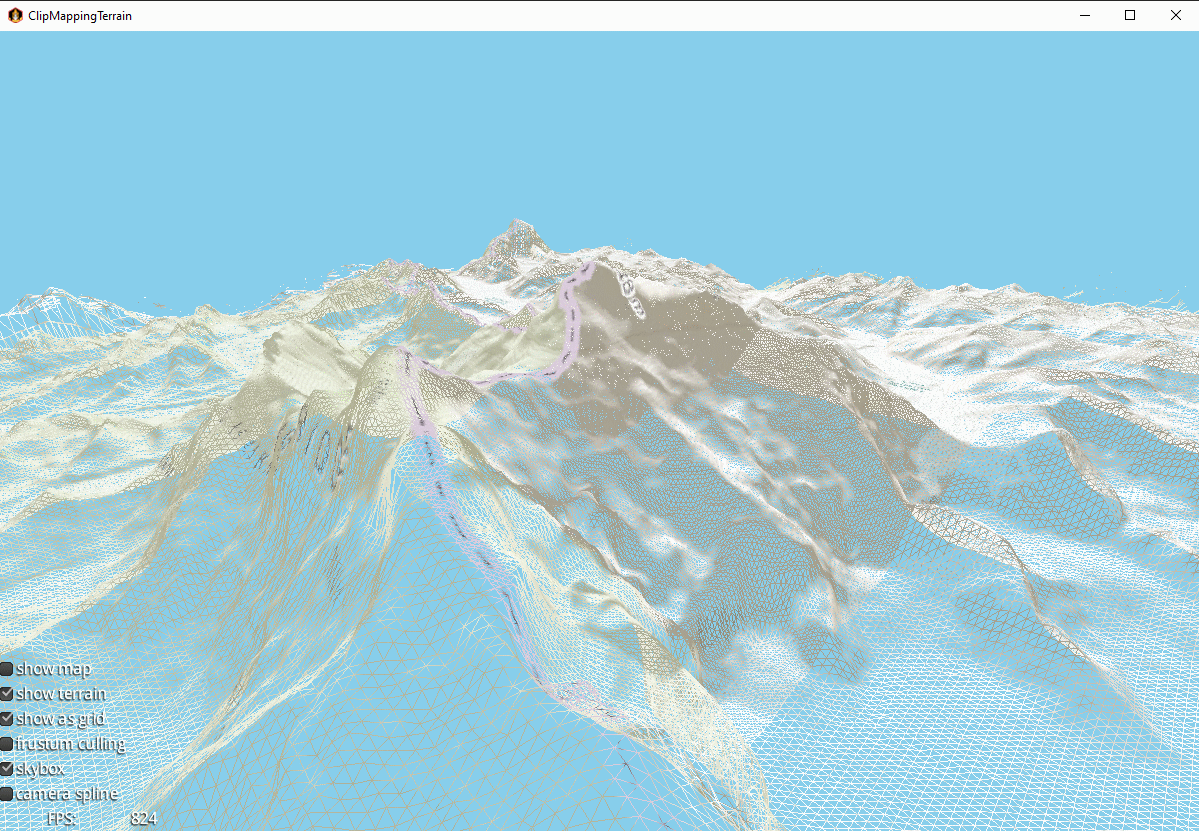
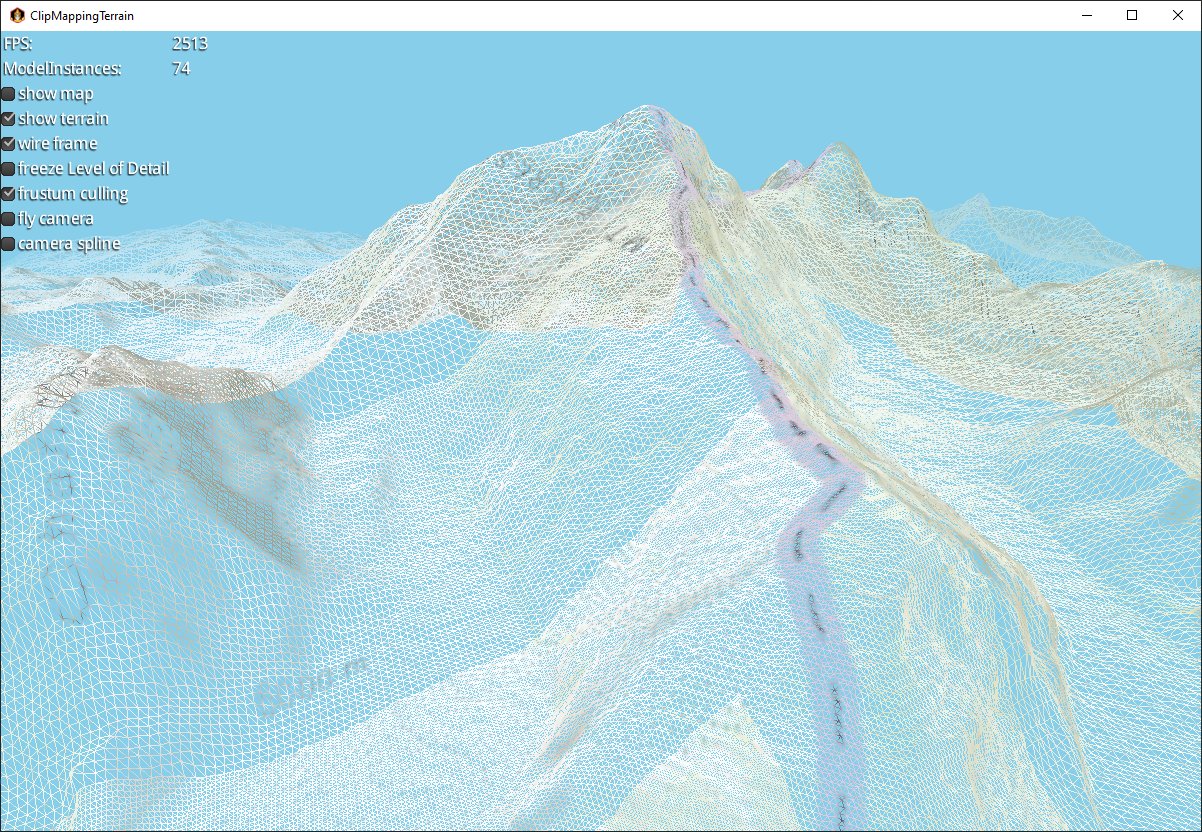
use 8 bit height map asset

diff --git a/core/src/main/java/com/monstrous/terrain/TerrainDemo.java b/core/src/main/java/com/monstrous/terrain/TerrainDemo.java
@@ -13,6 +13,7 @@ import com.badlogic.gdx.graphics.g3d.utils.*;
 import com.badlogic.gdx.graphics.glutils.ShapeRenderer;
 import com.badlogic.gdx.math.CatmullRomSpline;
 import com.badlogic.gdx.math.Vector3;
+import com.badlogic.gdx.utils.Array;
 import com.badlogic.gdx.utils.ScreenUtils;
 import com.monstrous.terrain.terrain.Terrain;
 
@@ -23,12 +24,15 @@ public class TerrainDemo extends ApplicationAdapter {
 	public SpriteBatch batch;
 	public GUI gui;
     public Terrain terrain;
+    private Model cube;
+    private ModelBatch modelBatch;
 
 	CatmullRomSpline<Vector3> myCatmull;
 	ShapeRenderer shapeRenderer;
 	float time;
 	private final Vector3 tmp = new Vector3();
 	private final Vector3[] pathPoints = new Vector3[100];	// to render spline (debug)
+    private Array<ModelInstance> vegetation;   // to show placement at terrain height
 
 
 	@Override
@@ -38,11 +42,13 @@ public class TerrainDemo extends ApplicationAdapter {
 
         terrain = new Terrain(gui, 255, 7, 32f);
 
+        generateVegetation(terrain);
+
 		// create perspective camera
 		cam = new PerspectiveCamera(70, Gdx.graphics.getWidth(), Gdx.graphics.getHeight());
 		cam.position.set(0, 20000, 0);
 		cam.lookAt(0, 0, 0);
-		cam.far = 100000f;
+		cam.far = 10000000f;
 		cam.near = 10f;
 		cam.update();
 
@@ -59,6 +65,8 @@ public class TerrainDemo extends ApplicationAdapter {
 		// define some lighting
 		environment = new Environment();
         environment.set(new ColorAttribute(ColorAttribute.Fog, Color.SKY));
+
+        modelBatch = new ModelBatch();
 
 		batch = new SpriteBatch();
 		buildCameraPath();
@@ -87,6 +95,10 @@ public class TerrainDemo extends ApplicationAdapter {
         else
             cam.lookAt(0, 0, 0);
 
+//        float height = terrain.getHeight(cam.position.x, cam.position.z);
+//        if(height + 10f > cam.position.y)
+//            cam.position.y = height + 10f;
+
         if(!gui.freezeLoD && gui.showTerrain)
             terrain.update(cam);
 
@@ -99,9 +111,11 @@ public class TerrainDemo extends ApplicationAdapter {
         if(gui.showCameraPath)
 		    renderPath();
 
+        //renderVegetation();
+
 		if (gui.showHeightmap) {
 			batch.begin();
-			batch.draw(terrain.getHeightMapTexture(), Gdx.graphics.getWidth()-256, 0, 256, 256);
+			batch.draw(terrain.getHeightMapTexture(), Gdx.graphics.getWidth()-256, Gdx.graphics.getHeight()-256, 256, 256);
 			batch.end();
 		}
 		gui.render(Gdx.graphics.getDeltaTime());
@@ -112,6 +126,8 @@ public class TerrainDemo extends ApplicationAdapter {
 		batch.dispose();
         terrain.dispose();
         gui.dispose();
+        cube.dispose();
+        modelBatch.dispose();
 	}
 
 	private void buildCameraPath() {
@@ -140,6 +156,30 @@ public class TerrainDemo extends ApplicationAdapter {
 		}
 	}
 
+    private void generateVegetation(Terrain terrain){
+        ModelBuilder builder = new ModelBuilder();
+        float SZ = 250f;
+        cube = builder.createBox(SZ, SZ, SZ, new Material(ColorAttribute.createDiffuse(Color.CYAN)),
+            VertexAttributes.Usage.Position | VertexAttributes.Usage.Normal);
+
+        final int N = 100;
+        final float worldSize = 130000f;  // terrain.worldSize / 8.128 ??
+        vegetation = new Array<>();
+
+        for(int i = 0; i < N; i++){
+            float x = ((float)Math.random() -0.5f) * worldSize;
+            float z = ((float)Math.random() -0.5f) * worldSize;
+            float h = 5f + terrain.getHeight(x, z);
+            vegetation.add( new ModelInstance(cube, x, h, z));
+        }
+
+    }
+
+    private void renderVegetation(){
+        modelBatch.begin(cam);
+        modelBatch.render(vegetation);
+        modelBatch.end();
+    }
 
 
 	private void moveCameraAlongSpline(float time) {

diff --git a/core/src/main/java/com/monstrous/terrain/terrain/HeightMap.java b/core/src/main/java/com/monstrous/terrain/terrain/HeightMap.java
@@ -1,68 +1,14 @@
 package com.monstrous.terrain.terrain;
 
-
-import com.badlogic.gdx.files.FileHandle;
-import com.badlogic.gdx.graphics.Pixmap;
 import com.badlogic.gdx.graphics.Texture;
 import com.badlogic.gdx.utils.Disposable;
 
+public interface HeightMap extends Disposable {
 
-public class HeightMap implements Disposable {
-    final int PERLIN_GRID_SIZE = 16;
+    /** returns a 2d texture with the height in the alpha channel. */
+    public Texture getHeightMapTexture();
 
-    public int mapSize;
-    private float[][] heightMap;
-    private Noise noise;
-    private Texture heightMapTexture;
-    private Pixmap pixmap;
-
-
-    /** Create height map using Perlin noise */
-    public HeightMap(int mapSize) {
-        this.mapSize = mapSize;
-        noise = new Noise();
-        // generate a noise map
-        heightMap = noise.generateSmoothedPerlinMap(mapSize, mapSize, 0,0, PERLIN_GRID_SIZE);
-    }
-
-    /** Create height map from grey scale texture file (should be 16 bits greyscale) */
-    public HeightMap(FileHandle textureFile) {
-        pixmap = new Pixmap(textureFile);
-        heightMapTexture = new Texture(pixmap, true);
-
-        heightMapTexture.setWrap(Texture.TextureWrap.ClampToEdge, Texture.TextureWrap.ClampToEdge);
-        heightMapTexture.setFilter(Texture.TextureFilter.MipMapLinearLinear, Texture.TextureFilter.Linear);
-        mapSize = heightMapTexture.getWidth();  // assumes a square
-    }
-
-    public Texture getHeightMapTexture(){
-        // create on demand
-        if(heightMapTexture == null){
-            // copy to a texture (for debug)
-            pixmap = noise.generatePixmap(heightMap, mapSize);
-
-            heightMapTexture = new Texture(pixmap);
-            heightMapTexture.setWrap(Texture.TextureWrap.ClampToEdge, Texture.TextureWrap.ClampToEdge);
-            heightMapTexture.setFilter(Texture.TextureFilter.Linear, Texture.TextureFilter.Linear);
-        }
-        return heightMapTexture;
-    }
-
-    public float get(float wx, float wz){
-        int x = Math.round(wx * mapSize);
-        int z = Math.round(wz*mapSize);
-        // todo alpha is 16-bit but getPixel reduces this to 8 bits. Should read from ByteBuffer instead.
-        int pixel = pixmap.getPixel(x, z);
-        //Gdx.app.log("pixel: ", Integer.toHexString(pixel));
-        int a = (pixel) & 0xFF;
-        float h = 20000f * ((a/255.0f)-0.5f);
-        return h; //heightMap[z][x];
-    }
-
-    @Override
-    public void dispose() {
-        if(heightMapTexture != null)
-            heightMapTexture.dispose();
-    }
+    /** get height at position (wx, wz). Coordinates must be in range [0.0 to 1.0]. */
+    public float get(float wx, float wz);
 
 }

diff --git a/core/src/main/java/com/monstrous/terrain/terrain/Terrain.java b/core/src/main/java/com/monstrous/terrain/terrain/Terrain.java
@@ -18,6 +18,7 @@ public class Terrain implements Disposable {
     public final int clipMapSize;   // should be 2^N-1, e.g. 127 or 63 (255 is too large for the indexing) = vertices per side
     public final int numLevels;
     public final float tileSize;
+    public final float worldSize;   // world size of terrain, centered on the origin
     public HeightMap heightMap;
     public final Array<TerrainElement> elements = new Array<>();
     private final Array<ModelInstance> instances = new Array<>();
@@ -43,8 +44,9 @@ public class Terrain implements Disposable {
         this.clipMapSize = clipMapSize;
         this.numLevels = numLevels;
         this.tileSize = tileSize;
+        this.worldSize = (clipMapSize-1) * tileSize * (float)Math.pow(2.0, numLevels);
         //heightMap = new HeightMap(256); //clipMapSize+1);
-        heightMap = new HeightMap(Gdx.files.internal("terrain/everest_2048_2048_16bit.png"));
+        heightMap = new HeightMapFromFile(Gdx.files.internal("terrain/everest_2048_2048_8bit.png"));
 
         focus = new Vector3();
 
@@ -59,6 +61,17 @@ public class Terrain implements Disposable {
                 return new DefaultShader(renderable, new DefaultShader.Config(Gdx.files.internal("shaders/terrain.vertex.glsl").readString(), Gdx.files.internal("shaders/terrain.fragment.glsl").readString()));
             }
         });
+    }
+
+
+    public float getHeight(float worldX, float worldZ){
+        float worldSize = 254f * 128f * 4f;     // to match hard coded value in vertex shader
+        // scale [-0.5*worldSize .. 0.5*worldSize] to [0 .. 1]
+        float u = (worldX / worldSize) + 0.5f;
+        float v = (worldZ / worldSize) + 0.5f;
+        if(u < 0 || u > 1f || v < 0 || v > 1f)
+            return 25600;
+        return 100f * (heightMap.get(u, v) - 128);
     }
 
     /** Generate terrain building block models. This can be called to change the appearance (e.g. wire frame mode).

diff --git a/core/src/main/java/com/monstrous/terrain/terrain/HeightMapFromFile.java b/core/src/main/java/com/monstrous/terrain/terrain/HeightMapFromFile.java
@@ -1,0 +1,60 @@
+package com.monstrous.terrain.terrain;
+
+
+import com.badlogic.gdx.files.FileHandle;
+import com.badlogic.gdx.graphics.Pixmap;
+import com.badlogic.gdx.graphics.Texture;
+import com.badlogic.gdx.utils.Disposable;
+
+import java.nio.ByteBuffer;
+
+
+public class HeightMapFromFile implements HeightMap, Disposable {
+
+    public int mapSize;
+    private Texture heightMapTexture;
+    private Pixmap pixmap;
+    private byte[] heightData;
+
+
+    /** Create height map from grey scale texture file (should be 8 bits greyscale) */
+    public HeightMapFromFile(FileHandle textureFile) {
+        pixmap = new Pixmap(textureFile);
+
+        // read heights into an array
+        ByteBuffer bytes = pixmap.getPixels();
+        int numBytes = bytes.limit();
+        heightData = new byte[numBytes];
+        bytes.get(heightData);
+        bytes.rewind();
+
+        heightMapTexture = new Texture(pixmap, true);
+
+        heightMapTexture.setWrap(Texture.TextureWrap.ClampToEdge, Texture.TextureWrap.ClampToEdge);
+        heightMapTexture.setFilter(Texture.TextureFilter.MipMapLinearLinear, Texture.TextureFilter.Linear);
+        mapSize = heightMapTexture.getWidth();  // assumes a square
+
+        float h = get(0f, 0f);
+    }
+
+    public Texture getHeightMapTexture(){
+        return heightMapTexture;
+    }
+
+    /** get height at position (u, v). Coordinates must be in range [0.0 to 1.0]. */
+    public float get(float u, float v){
+        int x = Math.round(u * mapSize);
+        int z = Math.round(v * mapSize);
+
+        int hi = heightData[z*mapSize+x] & 0xFF;
+        float h = hi;
+        return h;
+    }
+
+    @Override
+    public void dispose() {
+        if(heightMapTexture != null)
+            heightMapTexture.dispose();
+    }
+
+}

diff --git a/core/src/main/java/com/monstrous/terrain/terrain/HeightMapGenerated.java b/core/src/main/java/com/monstrous/terrain/terrain/HeightMapGenerated.java
@@ -1,0 +1,57 @@
+package com.monstrous.terrain.terrain;
+
+
+import com.badlogic.gdx.files.FileHandle;
+import com.badlogic.gdx.graphics.Pixmap;
+import com.badlogic.gdx.graphics.Texture;
+import com.badlogic.gdx.utils.Disposable;
+
+import java.nio.ByteBuffer;
+
+
+public class HeightMapGenerated implements HeightMap, Disposable {
+    final int PERLIN_GRID_SIZE = 16;
+
+    public int mapSize;
+    private float[][] heightMap;
+    private Noise noise;
+    private Texture heightMapTexture;
+    private Pixmap pixmap;
+
+
+    /** Create height map using Perlin noise */
+    public HeightMapGenerated(int mapSize) {
+        this.mapSize = mapSize;
+        noise = new Noise();
+        // generate a noise map
+        heightMap = noise.generateSmoothedPerlinMap(mapSize, mapSize, 0,0, PERLIN_GRID_SIZE);
+    }
+
+    public Texture getHeightMapTexture(){
+        // create on demand
+        if(heightMapTexture == null){
+            // copy to a texture (for debug)
+            pixmap = noise.generatePixmap(heightMap, mapSize);
+
+            heightMapTexture = new Texture(pixmap);
+            heightMapTexture.setWrap(Texture.TextureWrap.ClampToEdge, Texture.TextureWrap.ClampToEdge);
+            heightMapTexture.setFilter(Texture.TextureFilter.Linear, Texture.TextureFilter.Linear);
+        }
+        return heightMapTexture;
+    }
+
+    /** get height at position (wx, wz). Coordinates must be in range [0.0 to 1.0]. */
+    public float get(float wx, float wz){
+        int x = Math.round(wx * mapSize);
+        int z = Math.round(wz * mapSize);
+
+        return heightMap[z][x];
+    }
+
+    @Override
+    public void dispose() {
+        if(heightMapTexture != null)
+            heightMapTexture.dispose();
+    }
+
+}

diff --git a/core/src/main/java/com/monstrous/terrain/terrain/Noise.java b/core/src/main/java/com/monstrous/terrain/terrain/Noise.java
@@ -163,6 +163,7 @@ public class Noise {
     // from tests/g3d/voxel/PerlinNoiseGenerator.java
     public Pixmap generatePixmap (float [][] map, int size) {
 
+        // todo use format Alpha
         Pixmap pixmap = new Pixmap(size, size, Pixmap.Format.RGBA8888);
         int idx = 0;
         for(int y = 0; y < size; y++) {

diff --git a/README.md b/README.md
@@ -8,10 +8,11 @@ https://developer.nvidia.com/gpugems/gpugems2/part-i-geometric-complexity/chapte
 
 
 The terrain is rendered as a set of concentric regular grids with decreasing granularity.
-The y-position of each vertex is read from a height texture by the vertex shader.
+The y-position displacement for each vertex is read from a height texture by the vertex shader.
 
-Sample height map of Everest from https://manticorp.github.io/unrealheightmap.
-The height map is a 16 bit grey scale png of 2048 by 2048.
+Sample height map of Everest courtesy of https://manticorp.github.io/unrealheightmap.
+The height map is an 8 bit grey scale png of 2048 by 2048.
+(LibGDX doesn't support 16-bit grey scale and will truncate such a file to 8 bits per pixel).
 
 
 ## Platforms
